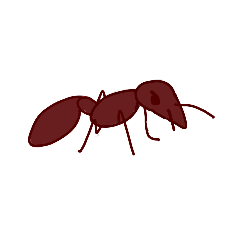
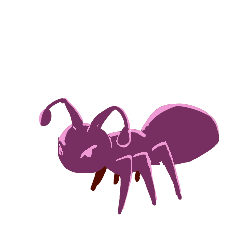
Press R to restart, minion texture change, temp background change

Changed region(s): [[0.1167, 0.3208, 0.9333, 0.9042]]

diff --git a/core/src/main/java/edu/cornell/cis3152/team8/GameScene.java b/core/src/main/java/edu/cornell/cis3152/team8/GameScene.java
@@ -5,6 +5,8 @@ package edu.cornell.cis3152.team8;
  */
 
 import com.badlogic.gdx.Gdx;
+import com.badlogic.gdx.Input;
+import com.badlogic.gdx.Input.Keys;
 import com.badlogic.gdx.Screen;
 import com.badlogic.gdx.graphics.Color;
 import com.badlogic.gdx.graphics.Texture;
@@ -61,6 +63,7 @@ public class GameScene implements Screen {
 
     private CollisionController collision;
     private boolean start;
+    private boolean reset;
 
     /**
      * Creates a GameScene
@@ -70,33 +73,8 @@ public class GameScene implements Screen {
     public GameScene(final GDXRoot game, AssetDirectory assets) {
         this.game = game;
         this.state = new GameState(assets);
-        start = false;
         coinTexture = new Texture("images/Coin.png");
-        player = new Player(500, 350);
-        state.setPlayer(player);
-        initMinions(5);
-        initCompanionPositions(5);
-        // initCoins(5);
-        coins = new LinkedList<>();
-        bosses = state.getBosses();
-        bossControls = new InputController[bosses.length];
-        bossControls[0] = new MouseController(bosses[0], state);
-        projectiles = state.getActiveProjectiles();
-
-        collision = new CollisionController(minions, player, companions, coins, bosses, projectiles);
-
-        // assuming player is a list of Companions btw
-        // player = state.getPlayer();
-        playerControls = new PlayerController(player);
-
-        // level = state.getLevel();
-
-        // assuming each level has number of enemies assigned?
-        minionControls = new InputController[minions.length];
-        for (int i = 0; i < minions.length; i++) {
-            minionControls[i] = new MinionController(i, minions, player);
-        }
-
+        reset();
     }
 
     /**
@@ -172,8 +150,12 @@ public class GameScene implements Screen {
      * but photon collisions are not.
      */
     public void update(float delta) {
+        if (Gdx.input.isKeyPressed(Keys.R) && !reset){
+            reset();
+        }
         if (Gdx.input.isTouched()) {
             start = true;
+            reset = false;
         }
         if (start && player.isAlive() && !bosses[0].isDestroyed()) {
             // iterate through all companions in the chain
@@ -301,15 +283,16 @@ public class GameScene implements Screen {
 
     private void drawTiles() {
         // technically this should be a call to the draw function inside of level
-        int tileSize = 64;
-        Texture tileTexture = new Texture("images/Tile1.png");
-        for (int x = 0; x < 20; x++) {
-            for (int y = 0; y < 12; y++) {
-                float xx = (float) (x) * tileSize;
-                float yy = (float) (y) * tileSize;
-                game.batch.draw(tileTexture, xx, yy, tileSize, tileSize);
-            }
-        }
+        //int tileSize = 64;
+        Texture tileTexture = new Texture("images/Background.png");
+        game.batch.draw(tileTexture, 0, 0, 1280, 720);
+//        for (int x = 0; x < 20; x++) {
+//            for (int y = 0; y < 12; y++) {
+//                float xx = (float) (x) * tileSize;
+//                float yy = (float) (y) * tileSize;
+//                game.batch.draw(tileTexture, xx, yy, tileSize, tileSize);
+//            }
+//        }
     }
 
     private void drawLose() {
@@ -358,5 +341,35 @@ public class GameScene implements Screen {
     @Override
     public void dispose() {
 
+    }
+
+    private void reset(){
+        start = false;
+        reset = true;
+        state.reset();
+        player = new Player(500, 350);
+        state.setPlayer(player);
+        initMinions(5);
+        initCompanionPositions(5);
+        // initCoins(5);
+        coins = new LinkedList<>();
+        bosses = state.getBosses();
+        bossControls = new InputController[bosses.length];
+        bossControls[0] = new MouseController(bosses[0], state);
+        projectiles = state.getActiveProjectiles();
+
+        collision = new CollisionController(minions, player, companions, coins, bosses, projectiles);
+
+        // assuming player is a list of Companions btw
+        // player = state.getPlayer();
+        playerControls = new PlayerController(player);
+
+        // level = state.getLevel();
+
+        // assuming each level has number of enemies assigned?
+        minionControls = new InputController[minions.length];
+        for (int i = 0; i < minions.length; i++) {
+            minionControls[i] = new MinionController(i, minions, player);
+        }
     }
 }
